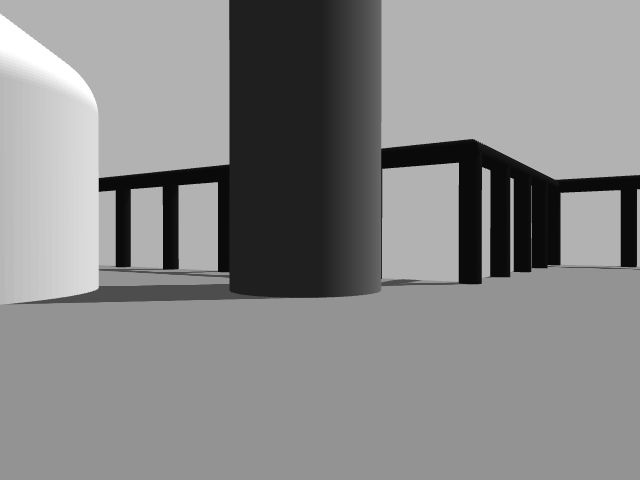
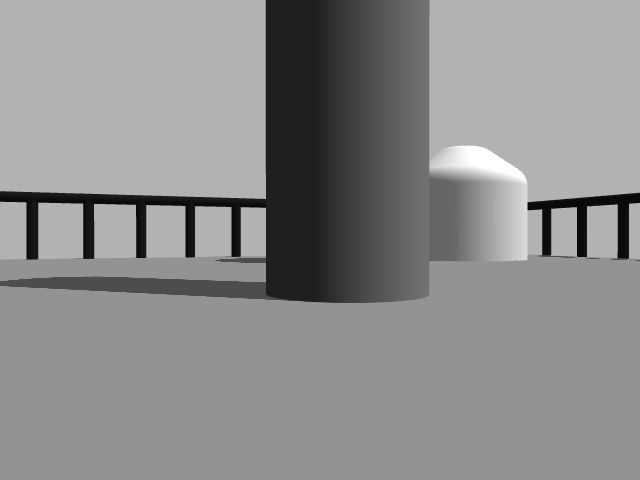
take_picture will now also loop around the obstacle after the picture is taken

Changed region(s): [[0.0, 0.0, 1.0, 0.6562]]

diff --git a/scripts/take_picture_server.py b/scripts/take_picture_server.py
@@ -18,6 +18,7 @@ from eva_a.srv import *
 from move_base_msgs.msg import MoveBaseActionGoal
 from sensor_msgs.msg import CompressedImage
 from cv_bridge import CvBridge, CvBridgeError
+from geometry_msgs.msg import Twist
 
 
 map_data = np.zeros((384, 384), dtype=np.int8)
@@ -80,6 +81,42 @@ def free_space(x_map, y_map, region_size):
     else:
         return True
 
+
+# Should also be able to define the wanted radius.
+def drive_around(radius):
+    pub = rospy.Publisher('/cmd_vel', Twist, queue_size=10)
+
+    rospy.sleep(0.5)
+
+    # Changing radius.
+    if radius <= 1.0:
+        vel_msg_forward = Twist()
+        vel_msg_forward.linear.x = 0.1
+        pub.publish(vel_msg_forward)
+        rospy.sleep((1.0 - radius)*10)
+    else:
+        vel_msg_backward = Twist()
+        vel_msg_backward.linear.x = -0.1
+        pub.publish(vel_msg_backward)
+        rospy.sleep((radius - 1.0)*10)
+
+    # Turning to face parallell.
+    vel_msg_right = Twist()
+    vel_msg_right.angular.z = -0.5
+    pub.publish(vel_msg_right)
+    rospy.sleep(3.14)
+
+    print("Driving around.")
+
+    # Driving around.
+    vel_msg_around = Twist()
+    vel_msg_around.angular.z = 0.125/radius
+    vel_msg_around.linear.x = 0.125
+    pub.publish(vel_msg_around)
+    rospy.sleep(16*3.14*radius)
+
+    vel_msg_stop = Twist()
+    pub.publish(vel_msg_stop)
 
 
 def find_capturing_pose(x_obstacle, y_obstacle):
@@ -162,7 +199,8 @@ def navigate_to_pose(pose):
             finished = True
 
         rospy.sleep(1.0)
-
+    
+    rospy.sleep(1.0)
 
 def handle_take_picture(req):
     global map_data
@@ -187,6 +225,8 @@ def handle_take_picture(req):
         print("Image stored: " + img_path)
 
         rospy.sleep(1)
+
+        drive_around(0.5)
 
         return TakePictureResponse(1)
     else:

diff --git a/scripts/obstacle_publisher.py b/scripts/obstacle_publisher.py
@@ -25,10 +25,10 @@ class Obstacle:
         cv.circle(canvas, self.center, self.radius, 255, 1)
 
     def get_lat(self, resolution):
-        return (self.center[0] - 200)*resolution
+        return (self.center[0] - 199)*resolution
 
     def get_lng(self, resolution):
-        return (self.center[1] - 184)*resolution
+        return (self.center[1] - 183)*resolution
 
     def get_radius(self, resolution):
         return self.radius*resolution
